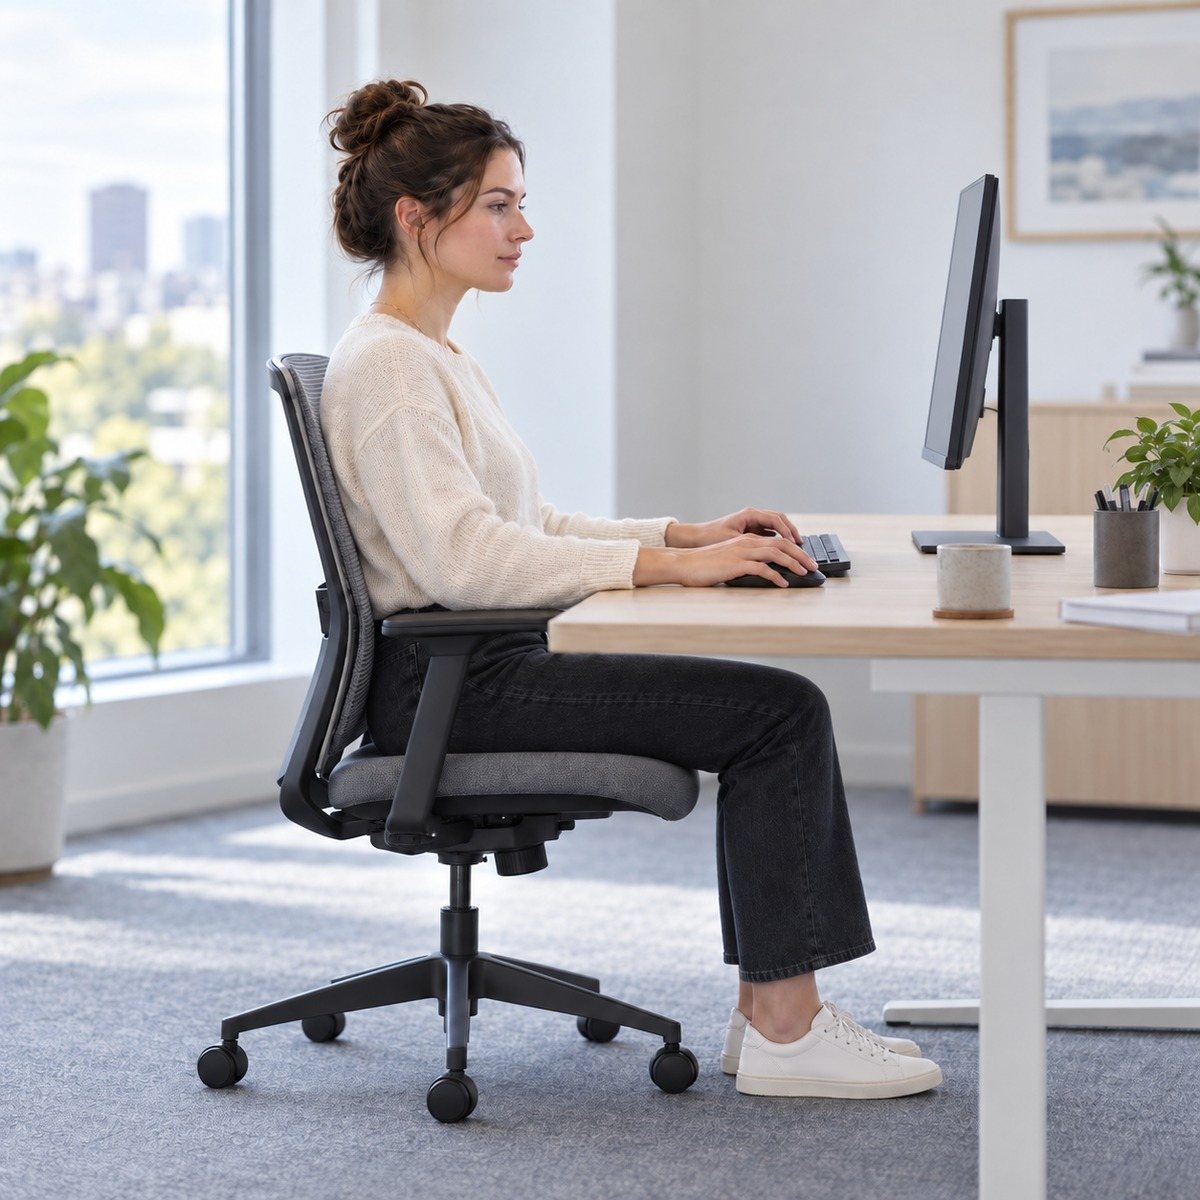
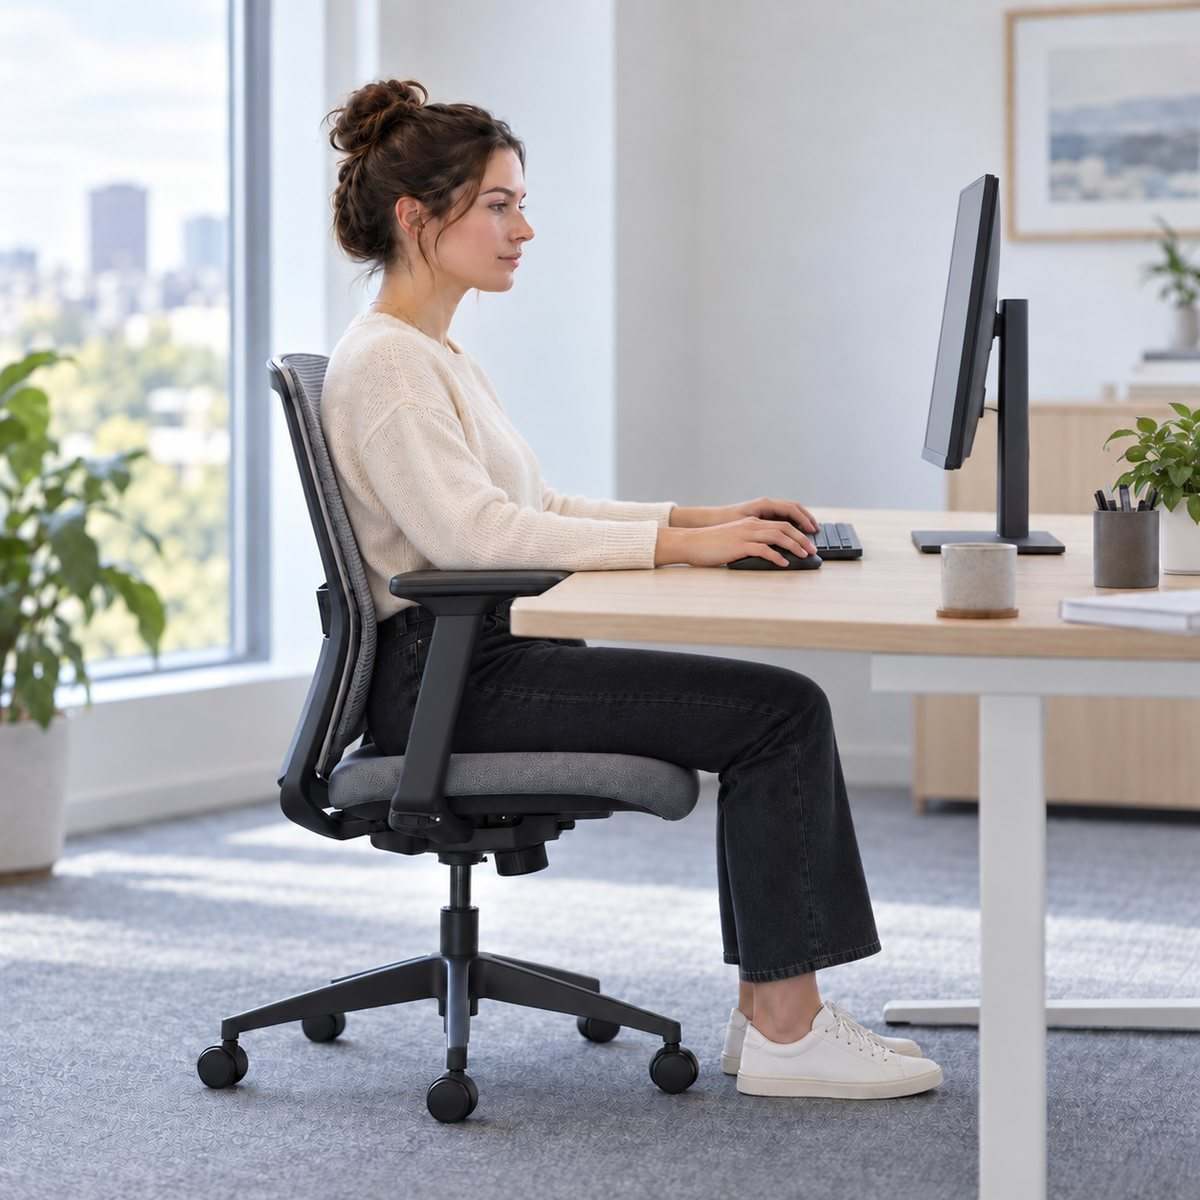
«Для себя»: новое фото первого экрана — подлокотники на уровне стола, локти вперед
Claude-Session: https://claude.ai/code/session_01XCAFwV2WjK7RvUbqXLRwWu

diff --git a/design/ergonomika-dlya-sebya.html b/design/ergonomika-dlya-sebya.html
@@ -92,7 +92,7 @@
 <!-- Карточка как на остальных внутренних страницах. Две кнопки — та же пара,
      что в финальном блоке: главная синяя «Начать с онлайн-курса» и вторичная
      контурная «Подобрать решение». Кадр — из согласованного набора
-     (principles/04, сохранен отдельно как self-hero, чтобы его можно было
+     (основа — principles/04, перегенерирован: подлокотники подняты до уровня стола, локти чуть вперед; хранится отдельно как self-hero, чтобы его можно было
      заменить только здесь): корпус придвинут к столу, предплечья на
      столешнице, спина на спинке с поясничной опорой, ноги на полу,
      монитор поднят. -->
@@ -113,8 +113,8 @@
       </div>
       <div class="dcohero__media" data-rv style="--d:.06s">
         <picture>
-          <source srcset="assets/photo/self-hero.webp" type="image/webp">
-          <img src="assets/photo/self-hero.jpg" alt="Женщина работает за компьютером: корпус придвинут к столу, предплечья лежат на столешнице, спина на спинке кресла с поясничной опорой, ноги на полу, монитор поднят" width="1200" height="1200" fetchpriority="high">
+          <source srcset="assets/photo/self-hero.webp?v=2" type="image/webp">
+          <img src="assets/photo/self-hero.jpg?v=2" alt="Женщина работает за компьютером: корпус придвинут к столу, предплечья лежат на столешнице и подлокотниках на уровне стола, спина на спинке кресла с поясничной опорой, ноги на полу, монитор поднят" width="1200" height="1200" fetchpriority="high">
         </picture>
       </div>
     </div>
